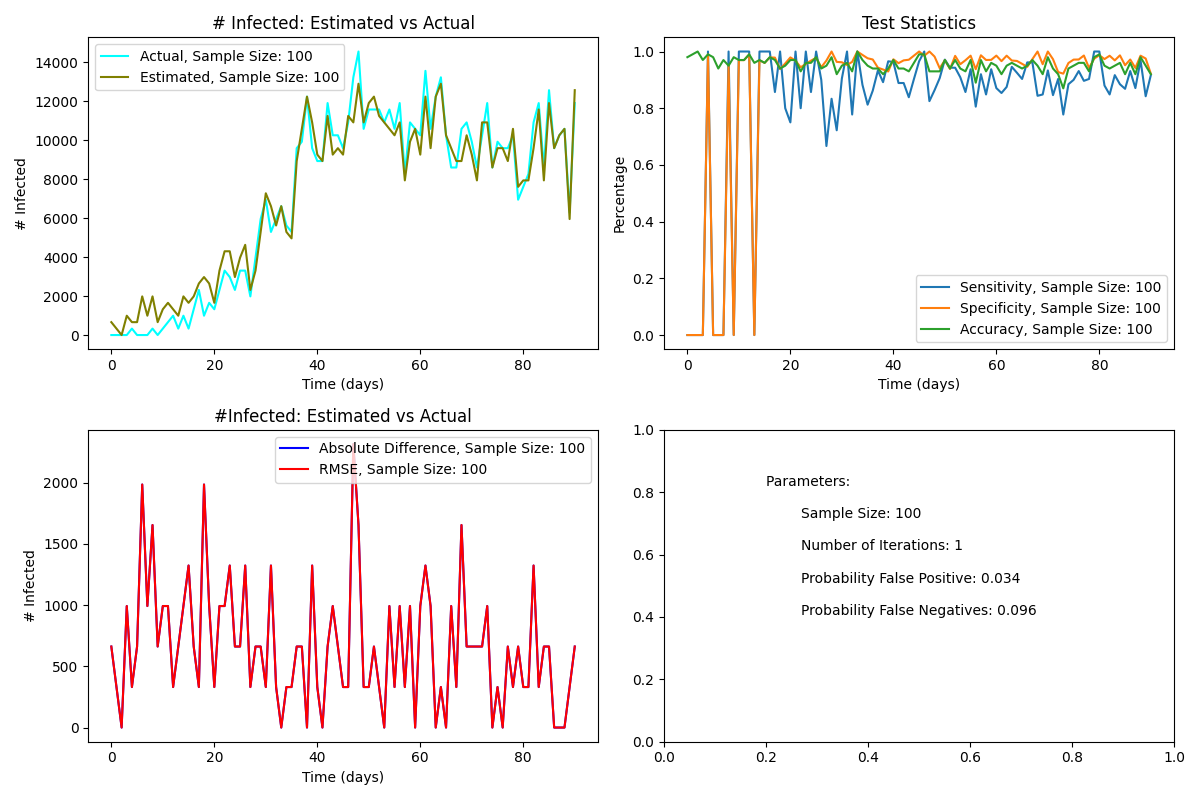
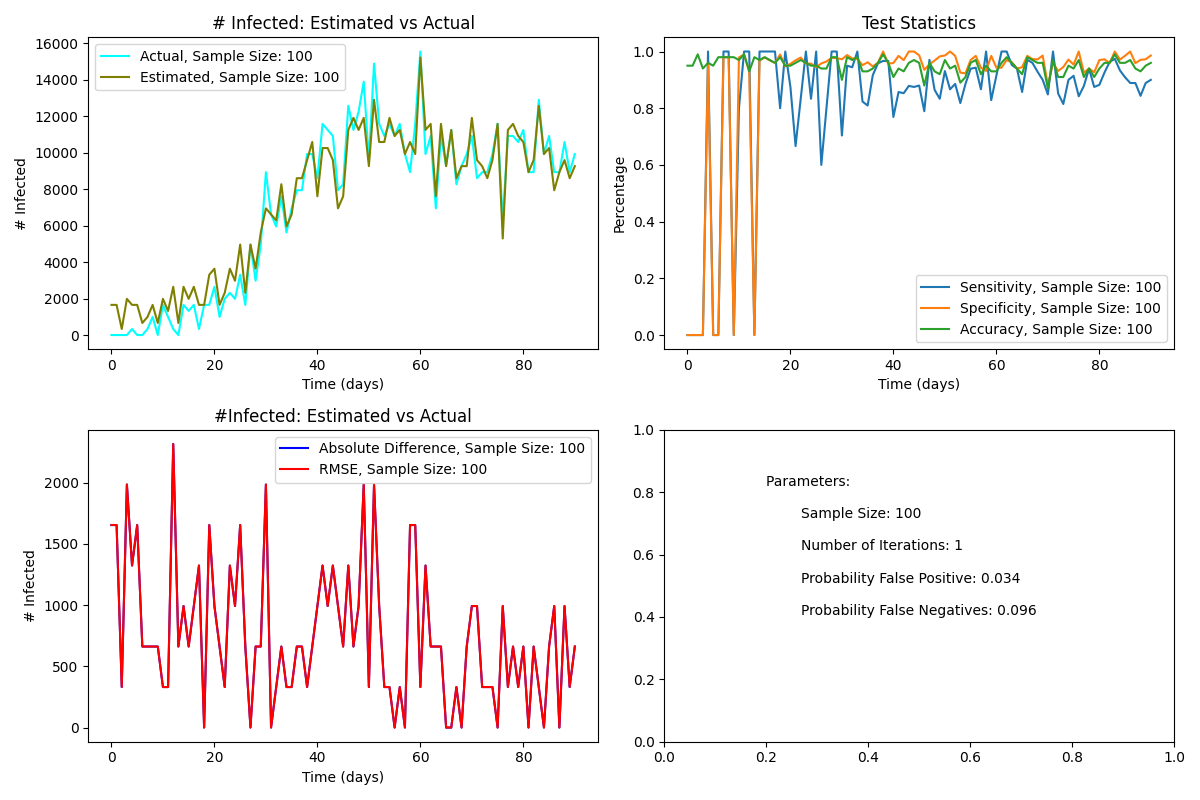
Implemented first model of agent dependent probabilities

diff --git a/epios/post_process.py b/epios/post_process.py
@@ -33,11 +33,12 @@ class PostProcess():
 
     '''
 
-    def __init__(self, demo_data: pd.DataFrame, time_data: pd.DataFrame, inf_data: pd.DataFrame = None):
+    def __init__(self, demo_data: pd.DataFrame, time_data: pd.DataFrame, inf_data: pd.DataFrame = None, model=None):
         self.demo_data = demo_data
         self.time_data = time_data
         self.inf_data = inf_data
-        self.predict = self.Prediction(demo_data=demo_data, time_data=time_data, inf_data=inf_data)
+        self.model = model
+        self.predict = self.Prediction(demo_data=demo_data, time_data=time_data, inf_data=inf_data, model=model)
 
     class Prediction():
         '''
@@ -57,7 +58,7 @@ class PostProcess():
 
         '''
 
-        def __init__(self, demo_data: pd.DataFrame, time_data: pd.DataFrame, inf_data: pd.DataFrame = None):
+        def __init__(self, demo_data: pd.DataFrame, time_data: pd.DataFrame, inf_data: pd.DataFrame = None, model=None):
             '''
             This is to put the information within the PostProcess class into this sub-class.
 
@@ -66,6 +67,7 @@ class PostProcess():
             self.demo_data = demo_data
             self.time_data = time_data
             self.inf_data = inf_data
+            self.model=model
 
         def AgeRegion(self, sample_size, time_sample, non_responder=False,
                       comparison=True, non_resp_rate=None, sample_strategy='Random',
@@ -528,7 +530,7 @@ class PostProcess():
                     # Get the results of people sampled
                     X = SamplingMaker(non_resp_rate=non_resp_rate, keep_track=True, data=self.time_data,
                                       false_positive=false_positive, false_negative=false_negative, threshold=None,
-                                      inf_data=self.inf_data)
+                                      inf_data=self.inf_data, model=self.model)
                     ite = X([time_sample[i]], people)
 
                     # After each sample, now deal with the additional samples
@@ -655,7 +657,7 @@ class PostProcess():
                     # Get results of each people sampled
                     X = SamplingMaker(non_resp_rate=0, keep_track=True, data=self.time_data,
                                       false_positive=false_positive, false_negative=false_negative, threshold=None,
-                                      inf_data=self.inf_data)
+                                      inf_data=self.inf_data, model=self.model)
                     ite = X(time_sample, people)
 
                     # Output the infected rate
@@ -709,7 +711,7 @@ class PostProcess():
                         # Get the results of each people sampled
                         X = SamplingMaker(non_resp_rate=0, keep_track=True, data=self.time_data,
                                           false_positive=false_positive, false_negative=false_negative, threshold=None,
-                                          inf_data=self.inf_data)
+                                          inf_data=self.inf_data, model=self.model)
                         ite = X([time_sample[i]], people)
 
                         # Output the infected rate
@@ -791,7 +793,7 @@ class PostProcess():
                 # Get results of each people sampled
                 X = SamplingMaker(non_resp_rate=0, keep_track=True, data=self.time_data,
                                   false_positive=false_positive, false_negative=false_negative, threshold=None,
-                                  inf_data=self.inf_data)
+                                  inf_data=self.inf_data, model=self.model)
                 ite = X(time_sample, people)
 
                 # Output the infected rate
@@ -835,7 +837,7 @@ class PostProcess():
                     # Get the results of each people sampled
                     X = SamplingMaker(non_resp_rate=0, keep_track=True, data=self.time_data,
                                       false_positive=false_positive, false_negative=false_negative, threshold=None,
-                                      inf_data=self.inf_data)
+                                      inf_data=self.inf_data, model=self.model)
                     ite = X([time_sample[i]], people)
 
                     # Output the infected rate

diff --git a/epios/sampling_maker.py b/epios/sampling_maker.py
@@ -2,6 +2,7 @@ from numpy.random import binomial
 import pandas as pd
 
 
+
 class SamplingMaker():
     '''
     Class to return the results of sampling
@@ -41,7 +42,7 @@ class SamplingMaker():
 
     def __init__(self, non_resp_rate=0, keep_track=False, data=None,
                  false_positive=0, false_negative=0, threshold=None,
-                 inf_data=None):
+                 inf_data=None, model=None):
         self.non_resp_rate = non_resp_rate
         self.recognised = [3, 4, 5, 6, 7, 8]
         self.threshold = threshold
@@ -50,6 +51,7 @@ class SamplingMaker():
         self.keep_track = keep_track
         self.data = data
         self.inf_data = inf_data
+        self.model = model
 
     def __call__(self, sampling_times, people):
 
@@ -100,7 +102,18 @@ class SamplingMaker():
         Possible outputs are 'NonResponder', 'Positive', 'Negative'.
         '''
 
-        print(infectiousness)
+        #print(infectiousness)
+
+        false_positive = self.false_positive
+        false_negative = self.false_negative
+        
+        if self.model is not None:
+
+            false_positive, false_negative = self.model(false_positive, false_negative, infectiousness)
+
+        #false_positive = (1 - infectiousness) * false_positive
+        #false_negative = (1 + infectiousness) * false_negative
+
 
         if bool(binomial(1, self.non_resp_rate)):
 
@@ -110,13 +123,13 @@ class SamplingMaker():
 
             if load in self.recognised: #infected
 
-                p = 1 - self.false_negative
+                p = 1 - false_negative
 
                 infected_flag = True
 
             else:
 
-                p = self.false_positive # not infected
+                p = false_positive # not infected
 
                 infected_flag = False
 
@@ -124,13 +137,13 @@ class SamplingMaker():
 
             if load > self.threshold:
 
-                p = 1 - self.false_negative
+                p = 1 - false_negative
 
                 infected_flag = True
 
             else:
 
-                p = self.false_positive
+                p = false_positive
 
                 infected_flag = False
 

diff --git a/gibraltar_ex/imperfect_testing_analysis.py b/gibraltar_ex/imperfect_testing_analysis.py
@@ -2,6 +2,7 @@ import epios
 import pandas as pd
 import numpy as np
 import matplotlib.pyplot as plt
+from sklearn.preprocessing import MinMaxScaler
 
 
 def calculate_imperfect_testing_rates(sensitivity=0.7, specificity=0.95, test_accuracy=0.87):
@@ -225,6 +226,14 @@ def analyse_imperfect_testing(sample_times,
     return None
 
 
+def falseposneg_model(false_positive, false_negative, infectiousness):
+
+    false_positive = (1 - infectiousness) * false_positive
+    false_negative = (1 + infectiousness) * false_negative
+
+    return false_positive, false_negative
+
+
 if __name__ == "__main__":
 
     # get demographic and time data for Gibraltar
@@ -233,8 +242,12 @@ if __name__ == "__main__":
     time_data = pd.read_csv(f'{path}/inf_status_history.csv')
     inf_data = pd.read_csv(f'{path}/infectiousness_history.csv')
 
+    scaler = MinMaxScaler()
+
+    inf_data = pd.DataFrame(scaler.fit_transform(inf_data), columns=inf_data.columns)
+
     # define the PostProcess class instance
-    postprocess = epios.PostProcess(time_data=time_data, demo_data=demo_data, inf_data=inf_data)
+    postprocess = epios.PostProcess(time_data=time_data, demo_data=demo_data, inf_data=inf_data, model=falseposneg_model)
 
     # get sample times
     sample_times = [t for t in range(0, 91)]
